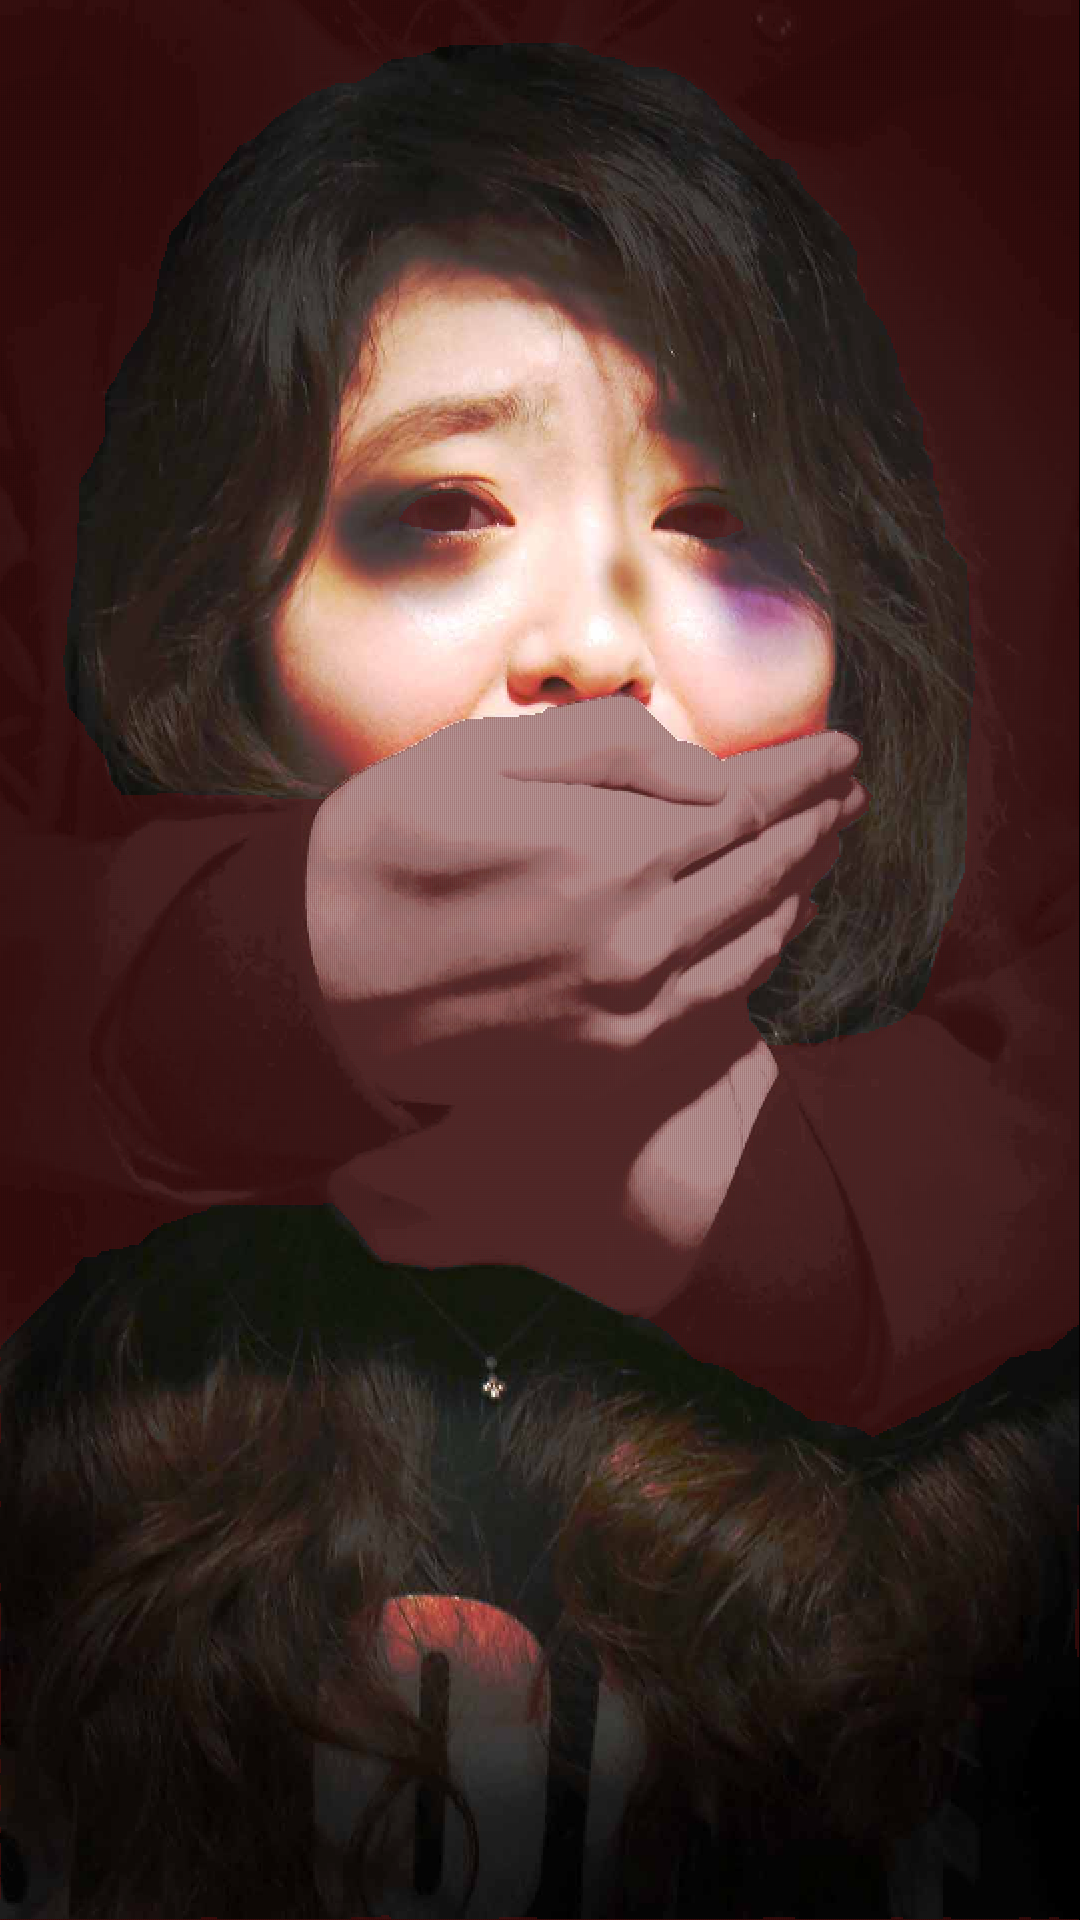
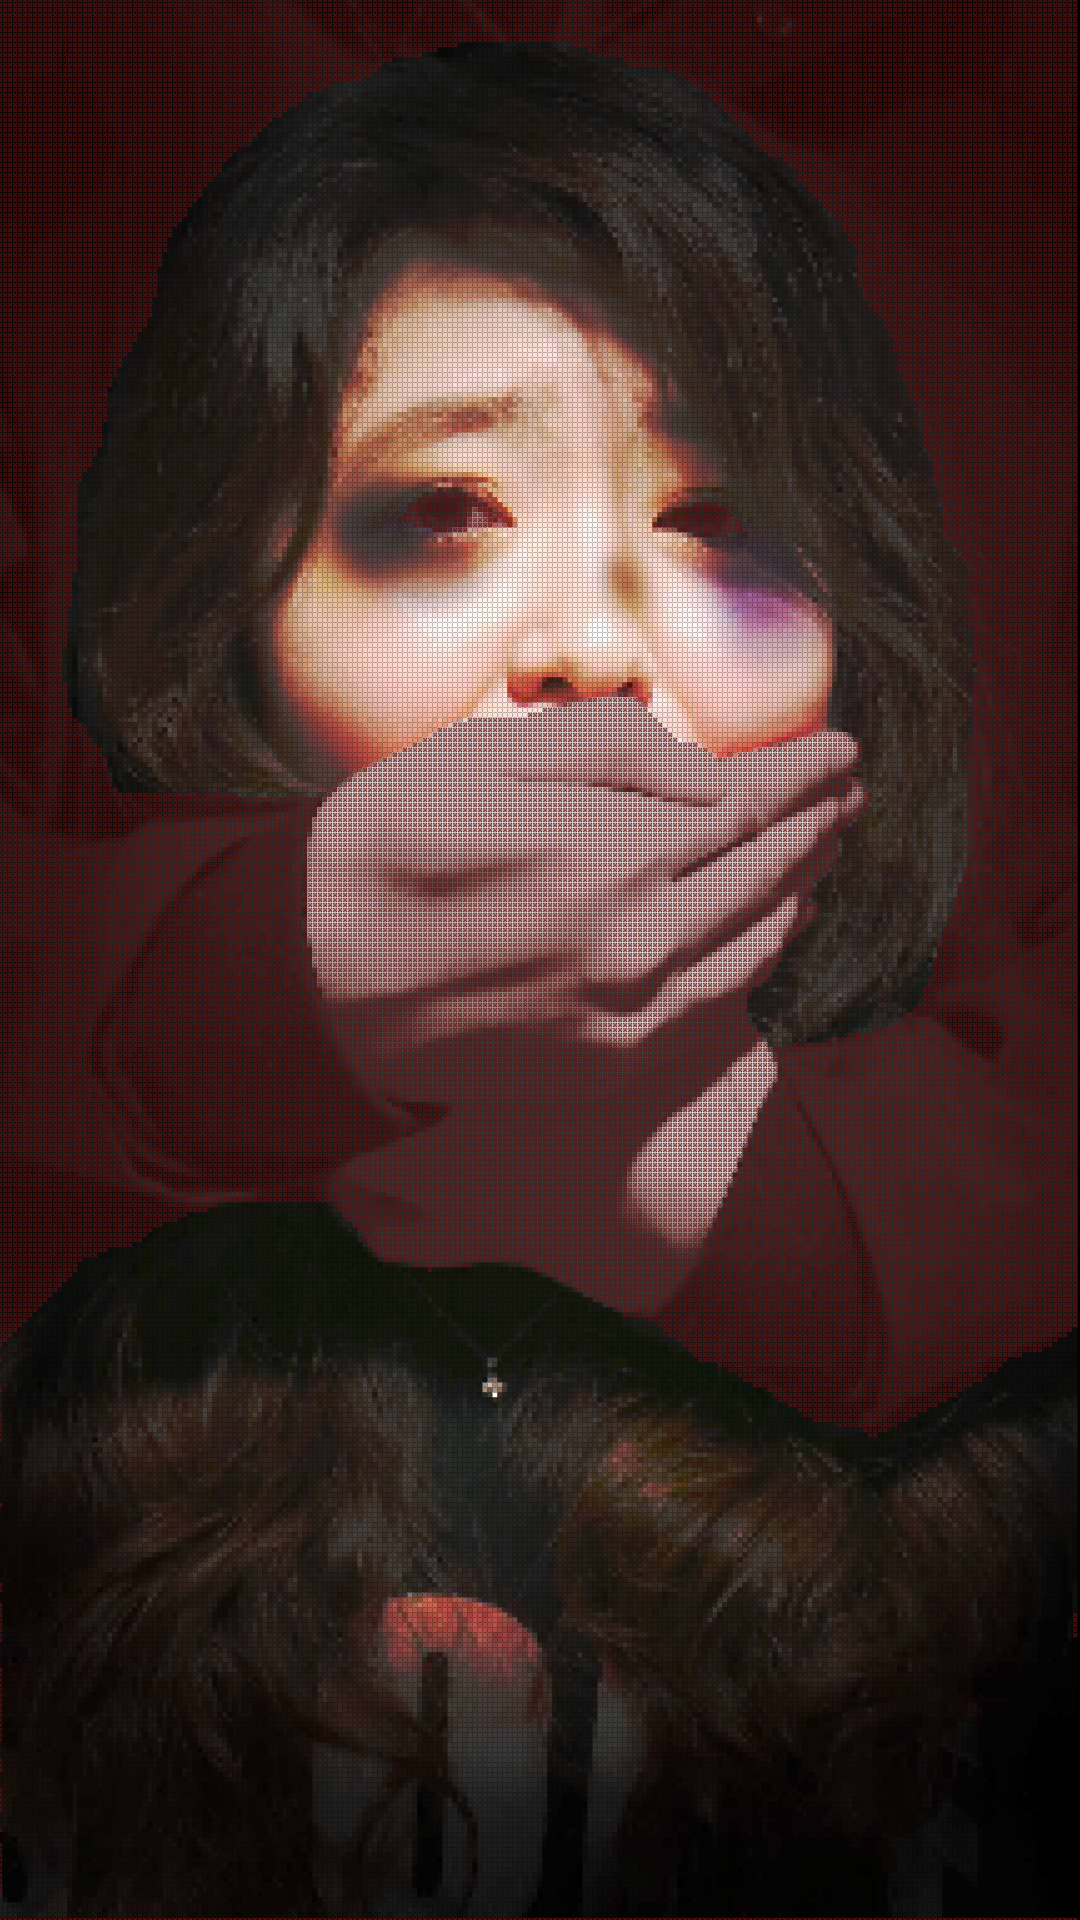
update my final

Changed region(s): [[0.0, 0.0, 1.0, 0.75], [0.3667, 0.8125, 0.4889, 0.875], [0.5806, 0.75, 0.6111, 0.7812]]

diff --git a/sketch.js b/sketch.js
@@ -18,8 +18,8 @@ let maskImg=null;
 let curRow=0;
 
 function preload() {
-  sourceImg = loadImage("input_1.jpg");
-  maskImg = loadImage("mask_1.png");
+  sourceImg = loadImage("input_3.jpg");
+  maskImg = loadImage("mask_3.png");
 }
 
 function setup () {
